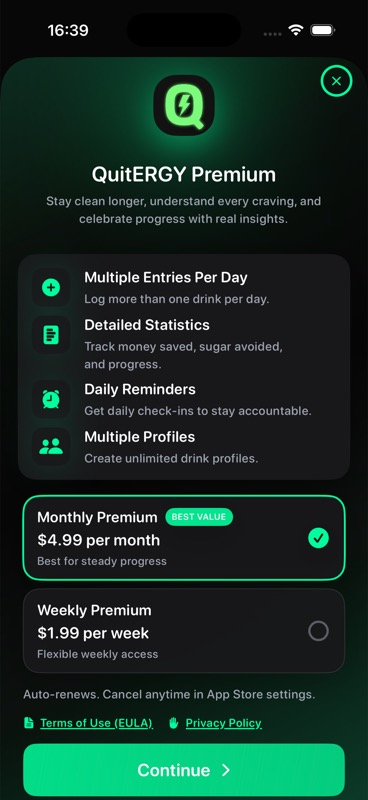
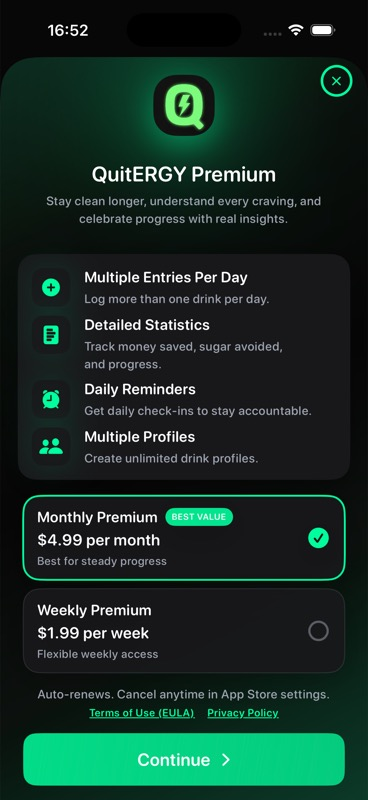
Compact paywall legal links

Changed region(s): [[0.0598, 0.8438, 0.9565, 1.0], [0.1793, 0.0312, 0.2391, 0.0625]]

diff --git a/QuitERGY/Paywall/PaywallView.swift b/QuitERGY/Paywall/PaywallView.swift
@@ -538,17 +538,9 @@ struct PlanSelectionSection: View {
                 }
             }
 
-            Text("Auto-renews. Cancel anytime in App Store settings.")
-                .font(.quitRounded(.medium, size: scaledValue(14, minimum: 12, maximum: 16)))
-                .foregroundStyle(QuitERGYTheme.textSecondary)
-                .multilineTextAlignment(.leading)
-                .frame(maxWidth: .infinity, alignment: .leading)
+            purchaseDisclosure
                 .opacity(purchaseManager.isPremiumUnlocked || visiblePlans.isEmpty ? 0 : 1)
                 .accessibilityHidden(purchaseManager.isPremiumUnlocked || visiblePlans.isEmpty)
-
-            legalPurchaseLinks
-                .opacity(purchaseManager.isPremiumUnlocked ? 0 : 1)
-                .accessibilityHidden(purchaseManager.isPremiumUnlocked)
 
             Button {
                 Task { await onPurchaseTapped() }
@@ -676,32 +668,34 @@ struct PlanSelectionSection: View {
         QuitERGYPaywallBrand.surface.opacity(0.95)
     }
 
-    private var legalPurchaseLinks: some View {
-        ViewThatFits(in: .horizontal) {
-            HStack(spacing: scaledValue(16, minimum: 12, maximum: 20)) {
-                purchaseLegalLink(title: "Terms of Use (EULA)", systemImage: "doc.text.fill", url: QuitERGYLegalLinks.termsOfUse)
-                purchaseLegalLink(title: "Privacy Policy", systemImage: "hand.raised.fill", url: QuitERGYLegalLinks.privacyPolicy)
-            }
+    private var purchaseDisclosure: some View {
+        VStack(spacing: scaledValue(5, minimum: 3, maximum: 6)) {
+            Text("Auto-renews. Cancel anytime in App Store settings.")
+                .font(.quitRounded(.medium, size: scaledValue(14, minimum: 12, maximum: 16)))
+                .foregroundStyle(QuitERGYTheme.textSecondary)
+                .multilineTextAlignment(.center)
+                .frame(maxWidth: .infinity, alignment: .center)
 
-            VStack(alignment: .leading, spacing: scaledValue(6, minimum: 4, maximum: 8)) {
-                purchaseLegalLink(title: "Terms of Use (EULA)", systemImage: "doc.text.fill", url: QuitERGYLegalLinks.termsOfUse)
-                purchaseLegalLink(title: "Privacy Policy", systemImage: "hand.raised.fill", url: QuitERGYLegalLinks.privacyPolicy)
-            }
+            legalPurchaseLinks
         }
-        .font(.quitRounded(.semibold, size: scaledValue(13, minimum: 12, maximum: 15)))
-        .frame(maxWidth: .infinity, alignment: .leading)
     }
 
-    private func purchaseLegalLink(title: String, systemImage: String, url: URL) -> some View {
+    private var legalPurchaseLinks: some View {
+        HStack(spacing: scaledValue(14, minimum: 10, maximum: 16)) {
+            purchaseLegalLink(title: "Terms of Use (EULA)", url: QuitERGYLegalLinks.termsOfUse)
+            purchaseLegalLink(title: "Privacy Policy", url: QuitERGYLegalLinks.privacyPolicy)
+        }
+        .font(.quitRounded(.semibold, size: scaledValue(12, minimum: 11, maximum: 13)))
+        .lineLimit(1)
+        .minimumScaleFactor(0.82)
+        .frame(maxWidth: .infinity, alignment: .center)
+    }
+
+    private func purchaseLegalLink(title: String, url: URL) -> some View {
         Link(destination: url) {
-            HStack(spacing: 6) {
-                Image(systemName: systemImage)
-                    .font(.system(size: scaledValue(12, minimum: 11, maximum: 14), weight: .semibold))
-                Text(L10n.text(title))
-                    .underline()
-                    .fixedSize(horizontal: false, vertical: true)
-            }
-            .foregroundStyle(planColor)
+            Text(L10n.text(title))
+                .underline()
+                .foregroundStyle(planColor)
         }
         .accessibilityLabel(Text(L10n.text(title)))
     }
